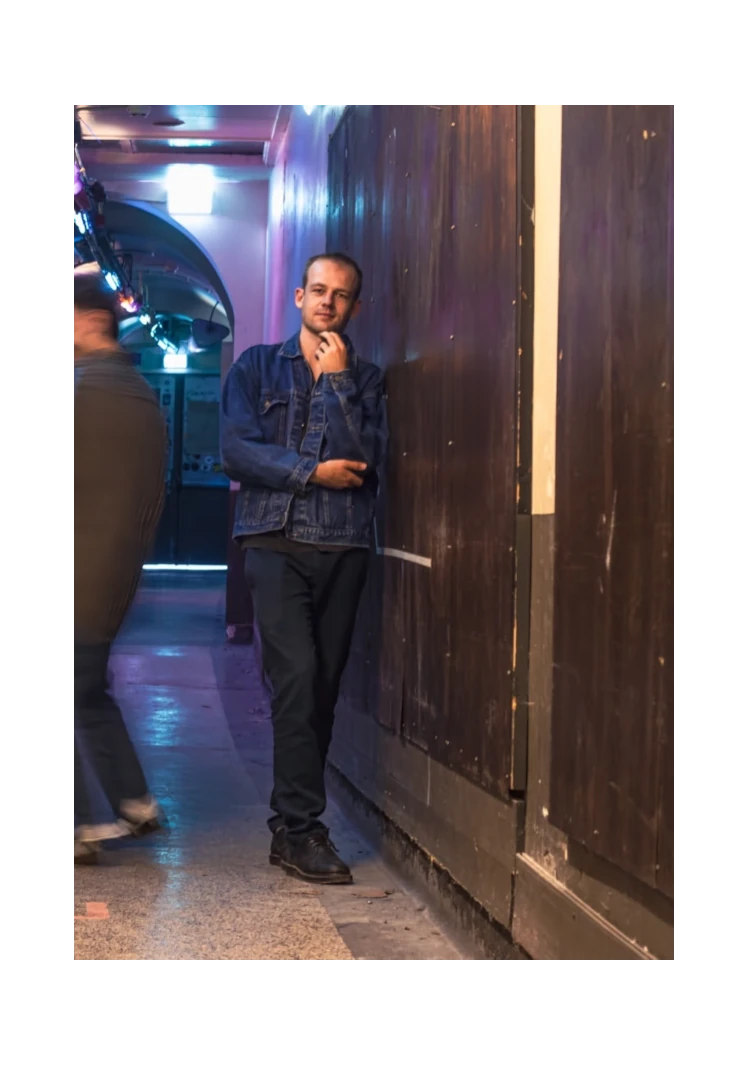
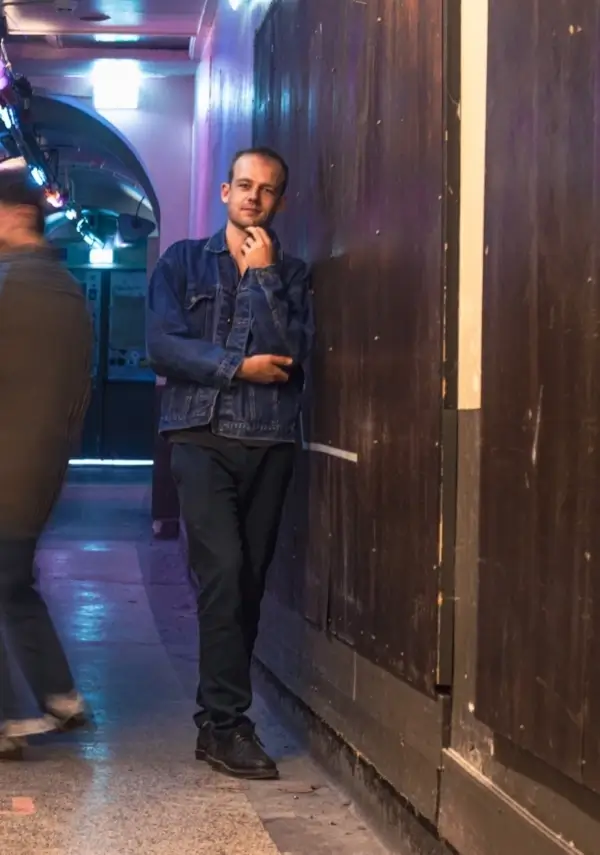
OOW-25

diff --git a/index.html b/index.html
@@ -24,15 +24,27 @@
       }
       }
       </script>
+        <link href="CSS/form.css" rel="stylesheet">
 <style>
 .c3 {
   font-family: "Times New Roman", Times, serif;
 
 
 }
+.card picture {
+height: 100%;
+width: 100%;
+}
 
+.card img {
+height: 100%;
+width: 100%;
+}
+
+.img1 {
+object-fit: cover;
+}
 </style>
-  <link href="CSS/form.css" rel="stylesheet">
   <link href="https://cdn.jsdelivr.net/npm/bootstrap@5.0.2/dist/css/bootstrap.min.css" rel="stylesheet">
   <script src="https://code.jquery.com/jquery-3.5.1.min.js"></script>
   <script src="https://cdn.jsdelivr.net/npm/bootstrap@5.0.2/dist/js/bootstrap.bundle.min.js"></script>
@@ -49,7 +61,7 @@
   <link href="CSS/menubar.css" rel="stylesheet">
   <!-- MDB -->
   <link rel="stylesheet" href="CSS/mdb.min.css" />
-  <link rel="icon" type="image/png" href="IMG/logo.webp">
+  <link rel="icon" type="image/png" href="logo.webp">
   <script src="https://kit.fontawesome.com/4b0bb67fb1.js" crossorigin="anonymous"></script>
 
   <title>Jip Gradener</title>
@@ -75,15 +87,7 @@
 <div class="c3" syle="font-family: "Lucida Console", "Courier New", monospace;">
   <nav class="navbar navbar-expand-lg fixed-top bg-black navbar-black">
     <div class="container-fluid">
-      <a class="navbar-brand" href="index.html" style="color: white;"><img
-              id="logo"
-              src="IMG/logo.webp"
-              alt="Placeholder logo"
-              draggable="false"
-              height="60px"
-              width="60px"
-              style="color: white;"
-      />Jip Gradener</a>
+      <a class="navbar-brand" href="index.html" style="color: white;"><img id="logo" src="logo.webp" height="55px" width="55px" alt="logo">Jip Gradener</a>
       <button
               class="navbar-toggler"
               type="button"
@@ -126,7 +130,11 @@
 
     <div class="cards">
       <div class="card">
-        <img class="img1" src="IMG/muur.webp" alt="Jip" >
+      <picture>
+        <source srcset="IMG/muur-klein.webp" media="(max-width: 490px)">
+        <source srcset="IMG/muur.webp">
+        <img class="img1" src="IMG/muur.webp" alt="jip">
+      </picture>
       </div>
       <div class="card" style="padding: 12px;">
         <h2>Over Mij</h2>
@@ -158,10 +166,18 @@
         </p>
       </div>
       <div class="card">
-        <img class="img1" src="IMG/boom.webp" alt="Jip" >
+      <picture>
+        <source srcset="IMG/boom-klein.webp" media="(max-width: 490px)">
+        <source srcset="IMG/boom.webp">
+        <img class="img1" src="IMG/boom.webp" alt="jip">
+      </picture>
       </div>
       <div class="card">
-        <img class="img1" src="IMG/text.webp" alt="Jip" >
+      <picture>
+        <source srcset="IMG/text-klein.webp" media="(max-width: 490px)">
+        <source srcset="IMG/text.webp">
+        <img class="img1" src="IMG/text.webp" alt="jip">
+      </picture>
       </div>
       <div class="card">
 
@@ -261,7 +277,7 @@
       <div class="card">
         <ul id="myTab" class="nav nav-tabs">
           <li class="nav-item">
-            <a href="#music" class="nav-link active" data-bs-toggle="tab"> Mijn Muziek</a>
+            <a href="#music" class="nav-link active" data-bs-toggle="tab">Mijn Muziek</a>
           </li>
           <li class="nav-item">
             <a href="#concerten" class="nav-link" data-bs-toggle="tab">Mijn Concerten</a>

diff --git a/style.css b/style.css
@@ -14,6 +14,11 @@ height: 100px;
   gap: 1rem;
 }
 
+.card picture {
+height: 100%;
+width: 100%;
+}
+
 .card img {
 height: 100%;
 width: 100%;
